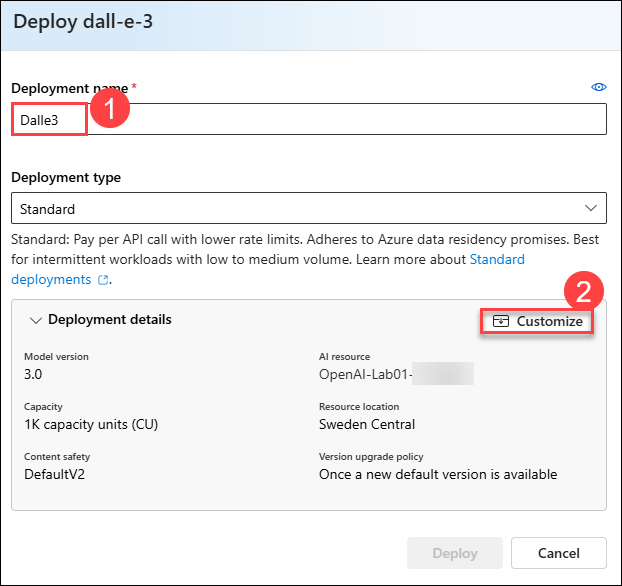
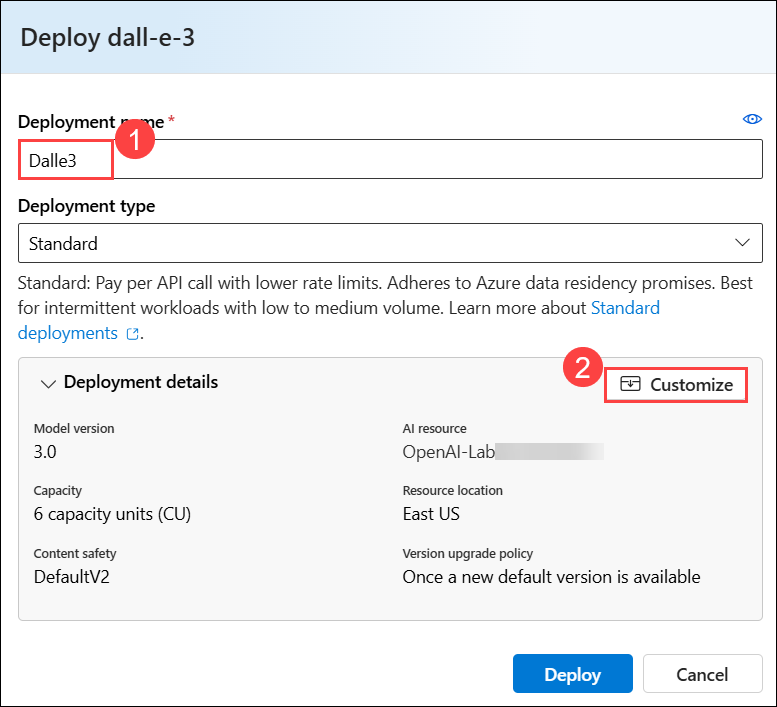
Updates

diff --git a/Instructions/Labs/Sandbox-Lab-05.md b/Instructions/Labs/Sandbox-Lab-05.md
@@ -88,17 +88,17 @@ In this task, you will use the DALL-E playground in the Azure AI Foundry portal 
 
       ![](../media/L5T1S5-1807.png)
 
-6. Within the **Deploy model** pop-up interface, enter the *Deployment name* as **Dalle3 (1)**, Click on **customize (2)** and make the **capacity 1K(Tokens per minute) (3)** and click on **Deploy (4)**.
+6. Within the **Deploy model** pop-up interface, enter the **Deployment name** as **Dalle3 (1)**, Click on **Customize (2)** and make the **Requests per Minute Rate Limit: 3 (3)** and click on **Deploy (4)**.
 
       ![](../media/L5T1S6.1-1807.png)
 
       ![](../media/L5T1S6.2-1807.png)
               
-4. From the left navigation pane, select **Images (1)**, enter a description of an image you'd like to generate in the **Describe the image you want to generate (2)** box (for example, *An elephant on a skateboard*), and then select **Generate (3)** to view the **resulting image (4)**.
+4. From the left navigation pane, select **Images (1)**, enter a description of an image you'd like to generate in the **Describe the image you want to generate (2)** box (for example, `An elephant on a skateboard`), and then select **Generate (3)** to view the **resulting image (4)**.
    
       ![The DALL-E Playground in Azure OpenAI Studio with a generated image.](../media/dev-genai-june-8.png)
 
-5. Modify the prompt to provide a more specific description. For example, *An elephant on a skateboard in the style of Picasso*. Then generate the new image and review the results.
+5. Modify the prompt to provide a more specific description. For example, `An elephant on a skateboard in the style of Picasso`. Then generate the new image and review the results.
 
       ![The DALL-E Playground in Azure OpenAI Studio with two generated images.](../media/dev-genai-june-9.png)
 
@@ -112,21 +112,48 @@ The Azure OpenAI service provides a REST API that you can use to submit prompts 
 
 In this task, you will use a simple Python or C# app to generate images by calling the REST API and running the code in the Cloud Shell console interface within the Azure portal.
 
-1. In the [Azure portal](https://portal.azure.com?azure-portal=true), select the **[>_]** (*Cloud Shell*) button at the top of the page to the right of the search box. A Cloud Shell pane will open at the bottom of the portal. 
+1. In the [Azure portal](https://portal.azure.com?azure-portal=true), select the **[>_]** (*Cloud Shell*) button at the top of the page to the right of the search box. A Cloud Shell pane will open at the bottom of the portal.
 
     ![Screenshot of starting Cloud Shell by clicking on the icon to the right of the top search box.](../media/cloudshell-launch-portal.png#lightbox)
 
     > **Note:** If a **Cloud Shell timed out** pop-up appears, click **Reconnect**.
 
-2. Make sure the type of shell indicated on the top left of the Cloud Shell pane is **Switch to PowerShell**. If it's *Bash*, select **Switch to Bash** and choose **Confirm** from the pop-up box.
+1. Select **Bash (1)** as the Cloud Shell, choose **Mount storage account (2)** and click on **Apply (3)**.
 
+    ![](../media/bashselect.png)
+
+    ![](../media/bashselect-1.png)
+
+1. On the **Mount storage account** screen, select **I want to create a storage account (1)** and click on **Next (2)**.
+
+    ![](../media/bashselect-2.png)
+
+1. Provide the following details:
+
+    - **Subscription**: Default - Pre-assigned subscription.
+    - **Resource group**: openai-<inject key="Deployment-ID" enableCopy="false"></inject>
+    - **Region**: Select <inject key="Region" enableCopy="false" />
+    - **Storage account name**: storage-<inject key="Deployment-ID" enableCopy="false"></inject>
+    - **File share**: file
+
+    ![](../media/bashselect-3.png)
+    
+    >**Note**: After the storage account is created and mounted, make sure the type of shell indicated on the top left of the Cloud Shell pane is **Switch to PowerShell**. If it's *Bash*, select **Switch to Bash** and choose **Confirm** from the pop-up box.
+    
     ![](../media/dev-genai-june-4.png)
 
-3. Once the terminal opens, click on **Settings** and select **Go to Classic Version**.
+1. Once the terminal opens, click on **Settings** and select **Go to Classic Version**.
 
    ![](../media/classic-cloudshell.png)
 
-4. Navigate to the folder for the language of your preference by running the appropriate command.
+1. Run the below commands:
+
+    ```
+    rm -r mslearn-openai -f
+    git clone https://github.com/CloudLabs-MOC/mslearn-openai
+    ```
+
+1. Navigate to the folder for the language of your preference by running the appropriate command.
 
     **C#**
 
@@ -140,12 +167,14 @@ In this task, you will use a simple Python or C# app to generate images by calli
     cd mslearn-openai/Labfiles/05-image-generation/Python
     ```
 
-6. Use the following command to open the built-in code editor and see the code files you will be working with.
+1. Use the following command to open the built-in code editor and see the code files you will be working with.
 
     ```bash
    code .
     ```
-   
+
+    ![](../media/bashcodeview.png)
+
 ### Task 3.2: Configure your application
 
 In this task, you will use a configuration file in the application to store the details needed to connect to your Azure OpenAI service account.
@@ -155,7 +184,7 @@ In this task, you will use a configuration file in the application to store the 
     - C#: `appsettings.json`
     - Python: `.env`
     
-2. Update the configuration values to include the **Endpoint** and **Key1** for your Azure OpenAI service. Then, save the file by right-clicking the file in the left pane.
+2. Update the configuration values to include the **Endpoint**, **Key1** and **Deployment name: Dalle3** for your Azure OpenAI service. Then, save the file by right-clicking the file in the left pane.
 
     > **Tip:** You can adjust the split at the top of the cloud shell pane to see the Azure portal and get the endpoint and key values from the **Keys and Endpoint** page for your Azure OpenAI service.
 
@@ -223,6 +252,8 @@ In this task, you will use a configuration file in the application to store the 
      ```
 
       >**Note:** These commands download and prepare the official `.NET` installation script, grant it execute permissions, and install the required .NET SDK version (8.0.404) in the `$DOTNET_ROOT` directory, as we don't have the admin privileges to install it globally.
+      
+      >**Note:** If the commands do not execute as a bunch, kindly run them one by one.
 
 1. Enter the following command to restore the workload.
 
